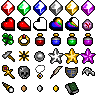
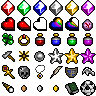
Merged.

Changed region(s): [[0.8125, 0.8125, 1.0, 1.0]]

diff --git a/src/player.c b/src/player.c
@@ -188,7 +188,7 @@ void player_init()
         p->phys.pos.x = CENTER_X;
         p->phys.pos.y = CENTER_Y;
         p->phys.pos.z = 0.0;
-        p->weapon_deg = 0.0;
+        p->weapon.rotation_deg = 0.0;
         player_set_sprite_index(p, 4);
         player_set_class(p, PLAYER_CLASS_SPACEMAN);
 
@@ -1046,25 +1046,25 @@ static void player_handle_melee(Player* p, float dt)
     if(p->actions[PLAYER_ACTION_SHOOT_UP].state)
     {
         player_set_sprite_index(p, SPRITE_UP);
-        p->weapon_deg = 90.0;
+        p->weapon.rotation_deg = 90.0;
         attacked = true;
     }
     else if(p->actions[PLAYER_ACTION_SHOOT_RIGHT].state)
     {
         player_set_sprite_index(p, SPRITE_RIGHT);
-        p->weapon_deg = 0.0;
+        p->weapon.rotation_deg = 0.0;
         attacked = true;
     }
     else if(p->actions[PLAYER_ACTION_SHOOT_DOWN].state)
     {
         player_set_sprite_index(p, SPRITE_DOWN);
-        p->weapon_deg = 270.0;
+        p->weapon.rotation_deg = 270.0;
         attacked = true;
     }
     else if(p->actions[PLAYER_ACTION_SHOOT_LEFT].state)
     {
         player_set_sprite_index(p, SPRITE_LEFT);
-        p->weapon_deg = 180.0;
+        p->weapon.rotation_deg = 180.0;
         attacked = true;
     }
 
@@ -2131,7 +2131,7 @@ void player_draw(Player* p)
 
     opacity = blink ? 0.3 : opacity;
 
-    if(p->weapon.type != WEAPON_TYPE_NONE && p->weapon_deg == 90.0)
+    if(p->weapon.type != WEAPON_TYPE_NONE && p->weapon.rotation_deg == 90.0)
     {
         weapon_draw(&p->weapon);
     }
@@ -2141,7 +2141,7 @@ void player_draw(Player* p)
     bool ret = gfx_sprite_batch_add(p->image, p->sprite_index+p->anim.curr_frame, p->phys.pos.x, y, p->settings.color, true, p->scale, 0.0, opacity, false, false, false);
     if(!ret) printf("Failed to add player to batch!\n");
 
-    if(p->weapon.type != WEAPON_TYPE_NONE && p->weapon_deg != 90.0)
+    if(p->weapon.type != WEAPON_TYPE_NONE && p->weapon.rotation_deg != 90.0)
     {
         weapon_draw(&p->weapon);
     }
@@ -2153,7 +2153,7 @@ void player_draw(Player* p)
             GFXImage* img = &gfx_images[p->weapon.image];
             Rect* vr = &img->visible_rects[0];
 
-            bool vertical = (p->weapon_deg == 90.0 || p->weapon_deg == 270.0);
+            bool vertical = (p->weapon.rotation_deg == 90.0 || p->weapon.rotation_deg == 270.0);
             float w = vertical ? vr->h : vr->w;
             float h = vertical ? vr->w : vr->h;
 
@@ -2348,7 +2348,7 @@ void player_handle_collision(Player* p, Entity* e)
                 GFXImage* img = &gfx_images[p->weapon.image];
                 Rect* vr = &img->visible_rects[0];
 
-                bool vertical = (p->weapon_deg == 90.0 || p->weapon_deg == 270.0);
+                bool vertical = (p->weapon.rotation_deg == 90.0 || p->weapon.rotation_deg == 270.0);
 
                 float w = vertical ? vr->h : vr->w;
                 float h = vertical ? vr->w : vr->h;

diff --git a/src/item.c b/src/item.c
@@ -728,7 +728,7 @@ Item* item_add(ItemType type, float x, float y, uint8_t curr_room)
         case ITEM_CHEST:
         {
             pu.phys.mass = 2.0;
-            pu.phys.base_friction = 30.0;
+            pu.phys.base_friction = 50.0;
             pu.phys.radius = 10*iscale; //TEMP
             pu.phys.elasticity = 0.2;
         } break;
@@ -736,7 +736,7 @@ Item* item_add(ItemType type, float x, float y, uint8_t curr_room)
         case ITEM_SHRINE:
         {
             pu.phys.mass = 1000.0;
-            pu.phys.base_friction = 30.0;
+            pu.phys.base_friction = 50.0;
             pu.phys.radius = 12*iscale; //TEMP
             pu.phys.elasticity = 0.2;
         } break;
@@ -744,7 +744,7 @@ Item* item_add(ItemType type, float x, float y, uint8_t curr_room)
         case ITEM_PODIUM:
         {
             pu.phys.mass = 1000.0;
-            pu.phys.base_friction = 30.0;
+            pu.phys.base_friction = 50.0;
             pu.phys.radius = 12*iscale; //TEMP
             pu.phys.elasticity = 0.2;
         } break;
@@ -754,16 +754,23 @@ Item* item_add(ItemType type, float x, float y, uint8_t curr_room)
         case ITEM_COIN_GOLD:
         {
             pu.phys.mass = 0.5;
-            pu.phys.base_friction = 8.0;
+            pu.phys.base_friction = 5.0;
             pu.phys.radius = 4*iscale; //TEMP
             pu.phys.elasticity = 0.5;
             pu.phys.vel.z = 100.0;
         } break;
-
+        case ITEM_SOCCER_BALL:
+        {
+            pu.phys.mass = 0.3;
+            pu.phys.base_friction = 2.0;
+            pu.phys.radius = 8*iscale; //TEMP
+            pu.phys.elasticity = 0.8;
+            pu.phys.vel.z = 200.0;
+        } break;
         default:
         {
             pu.phys.mass = 0.5;
-            pu.phys.base_friction = 8.0;
+            pu.phys.base_friction = 5.0;
             pu.phys.radius = 8*iscale; //TEMP
             pu.phys.elasticity = 0.5;
             pu.phys.vel.z = 200.0;

diff --git a/src/weapon.c b/src/weapon.c
@@ -59,21 +59,21 @@ static void update_weapon_pos(Weapon* w)
     Rect* vr = &img->visible_rects[0];
     Vector2f offset = {0.0, 0.0};
 
-    if(w->phys->rotation_deg == 90.0) // up
+    if(w->rotation_deg == 90.0) // up
     {
         offset.y -= vr->h*w->scale;
         offset.y -= w->phys->vr.h/2.0;
     }
-    else if(w->phys->rotation_deg == 0.0) // right
+    else if(w->rotation_deg == 0.0) // right
     {
         offset.x += vr->w*w->scale/2.0;
     }
-    else if(w->phys->rotation_deg == 270.0) // down
+    else if(w->rotation_deg == 270.0) // down
     {
         offset.y += vr->h*w->scale;
         offset.y += w->phys->vr.h/2.0;
     }
-    else if(w->phys->rotation_deg == 180.0) // left
+    else if(w->rotation_deg == 180.0) // left
     {
         offset.x -= vr->w*w->scale/2.0;
     }
@@ -138,7 +138,7 @@ void weapon_draw(Weapon* w)
     if(role == ROLE_CLIENT)
         update_weapon_pos(w);
 
-    gfx_sprite_batch_add(w->image, 0, w->pos.x, w->pos.y, w->color, false, w->scale, w->phys->rotation_deg, w->scale, false, false, false);
+    gfx_sprite_batch_add(w->image, 0, w->pos.x, w->pos.y, w->color, false, w->scale, w->rotation_deg, w->scale, false, false, false);
 }
 
 

diff --git a/src/level.c b/src/level.c
@@ -191,6 +191,9 @@ Level level_generate(unsigned int seed, int rank)
     //     // item_add(ITEM_SHRINE, CENTER_X+TILE_SIZE*2, CENTER_Y, sroom->index);
     // }
 
+    item_add(ITEM_SOCCER_BALL, CENTER_X, CENTER_Y, sroom->index);
+   
+
     LevelPath bpath = {0};
     Room* broom = NULL;
     broom = place_room_and_path(&glevel, NULL, ROOM_TYPE_BOSS, sroom, 2, 4, &bpath, false);

diff --git a/src/weapon.h b/src/weapon.h
@@ -21,8 +21,9 @@ typedef struct
     uint16_t id;
     WeaponType type;
     WeaponState state;
-    Physics* phys;
+    Physics* phys; // pointer to whatever physics it is attached to
     Vector3f pos;
+    float rotation_deg;
     int image;
     float scale;
     float damage;

diff --git a/src/player.h b/src/player.h
@@ -140,7 +140,6 @@ typedef struct
     ProjectileDef proj_def;
     ProjectileSpawn proj_spawn;
 
-    float weapon_deg;
     Weapon weapon;
 
     GFXAnimation anim;

diff --git a/src/item.h b/src/item.h
@@ -45,6 +45,7 @@ typedef enum
     ITEM_COIN_SILVER,
     ITEM_COIN_GOLD,
     ITEM_SKILL_BOOK,
+    ITEM_SOCCER_BALL,
 
     ITEM_CHEST,
     ITEM_SHRINE,
